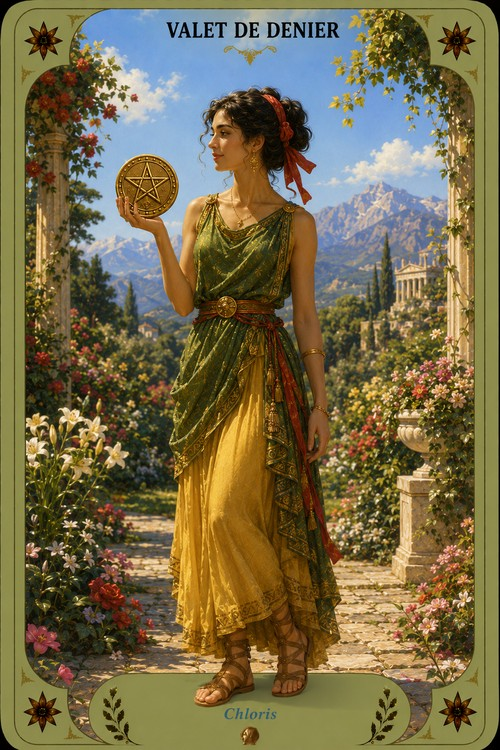
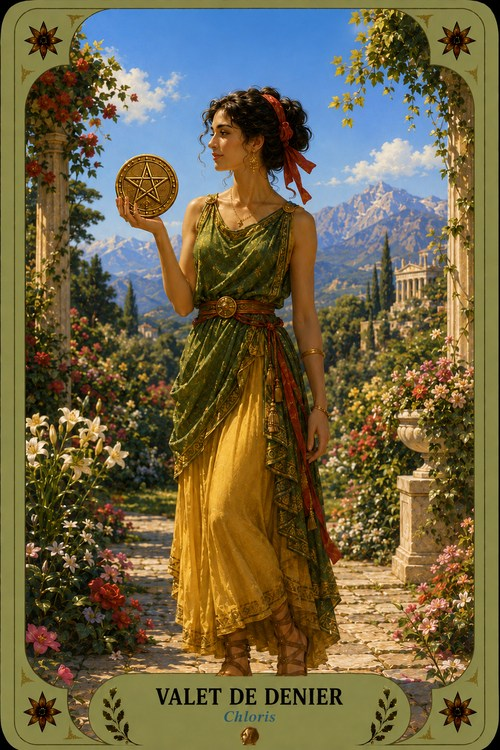
Illustre le 10 de Deniers + Cavalier/Reine/Roi de Deniers — les 78 cartes du jeu sont désormais toutes illustrées
- 4 nouvelles illustrations (500x750) fournies par l'utilisatrice : le
  10 de Deniers (nouvelle figure dédiée, Euthénie), le Cavalier de
  Deniers (Triptolème), la Reine de Deniers (Perséphone) et le Roi de
  Deniers (Ploutos) — tous les trois déjà connus via COURTS, seule
  l'illustration manquait.
- L'illustration du Valet de Deniers (Chloris) est remplacée par une
  nouvelle image fournie par l'utilisatrice (même divinité, chemin
  CARD_IMAGES inchangé).
- CARD_IMAGES : 4 nouvelles entrées. NUMBER_CARD_DEITY : "10 de
  Deniers":"euthénie" (les figures de cour n'en ont pas besoin, déjà
  couvertes par COURTS) — les 40 cartes numérales du jeu ont désormais
  chacune leur propre divinité.
- DEITY_NOTES/DEITY_LORE : nouvelle fiche complète pour Euthénie ;
  Perséphone, Triptolème et Ploutos (déjà connus) reçoivent chacun leur
  paragraphe "Dans le Tarot" reliant leur fiche à leur figure de cour
  désormais illustrée.
- CARD_LORE["10 de Deniers"].myth mis à jour pour référencer Euthénie
  (remplace Gaïa, convention numérale) ; les figures de cour
  référençaient déjà leur divinité par leur nom, texte inchangé.
- Renvois croisés : Euthénie -> Techné/Éléos/Ctésios ; le symbole "blé"
  relie désormais Perséphone et Triptolème (déjà cités dans son texte,
  jamais dans ses links).
- FREE_FIGURES inchangé (Euthénie n'entre pas dans le top 4
  alphabétique).
- Avec le 10 de Deniers illustré, les 36 décans des 12 signes du
[…]

diff --git a/app.js b/app.js
@@ -505,7 +505,7 @@ const CARD_LORE = {
 },
 "10 de Deniers": {
   marseille:"Une famille sur trois générations se tient réunie dans une cour prospère, entourée de dix deniers : héritage, réussite durable qui dépasse la seule réussite individuelle pour se transmettre.",
-  myth:"Gaïa, mère originelle, engendra les générations divines qui façonnèrent le monde bien après elle — une fondation si solide qu'elle continue de porter tout ce qui est venu ensuite. Cette carte est cet aboutissement qui se transmet, plutôt que de s'arrêter à soi."
+  myth:"Euthénie personnifie la Prospérité et l'Abondance durable, celle qui s'accumule patiemment plutôt que d'arriver d'un seul coup (voir la fiche « Euthénie »). Cette carte est cet aboutissement qui se transmet, plutôt que de s'arrêter à soi."
 }
 };
 
@@ -598,23 +598,30 @@ Object.assign(CARD_IMAGES, {
   "4 de Deniers": "assets/card-deniers-4.jpg",
   "5 de Deniers": "assets/card-deniers-5.jpg",
   // Cartes numérales de Deniers (6-9) et Valet de Deniers — fournies par l'utilisatrice,
-  // deuxième lot. Reste à illustrer : le 10 de Deniers et les 3 autres figures de cour
-  // (Cavalier, Reine, Roi).
+  // deuxième lot.
   "6 de Deniers": "assets/card-deniers-6.jpg",
   "7 de Deniers": "assets/card-deniers-7.jpg",
   "8 de Deniers": "assets/card-deniers-8.jpg",
   "9 de Deniers": "assets/card-deniers-9.jpg",
   "Valet de Deniers": "assets/card-deniers-valet.jpg",
+  // 10 de Deniers et les 3 dernières figures de cour (Cavalier/Triptolème,
+  // Reine/Perséphone, Roi/Ploutos) — troisième et dernier lot, fourni par l'utilisatrice.
+  // Les 78 cartes du jeu sont désormais toutes illustrées.
+  "10 de Deniers": "assets/card-deniers-10.jpg",
+  "Cavalier de Deniers": "assets/card-deniers-cavalier.jpg",
+  "Reine de Deniers": "assets/card-deniers-reine.jpg",
+  "Roi de Deniers": "assets/card-deniers-roi.jpg",
 });
 
-// Cartes numérales dotées d'une figure mythologique propre (contrairement aux autres
-// cartes numérales, qui partagent encore un simple mot générique entre les 4 enseignes —
-// voir NUMBER_KEYS) : la divinité associée prend la place de ce mot générique dans les
-// écrans de détail (voir cardDeityLabel() ci-dessous), exactement comme pour les majeurs
-// et les figures de cour. Pour l'instant limité aux cartes numérales illustrées
-// (CARD_IMAGES ci-dessus) ; à étendre au fil des prochaines illustrations mineures. Les
-// figures de cour n'ont pas besoin d'entrée ici : COURTS leur attribue déjà une divinité
-// propre nativement (c[1]), contrairement aux cartes numérales.
+// Cartes numérales dotées d'une figure mythologique propre (contrairement au mot générique
+// partagé entre les 4 enseignes que NUMBER_KEYS assignait avant illustration) : la divinité
+// associée prend la place de ce mot générique dans les écrans de détail (voir
+// cardDeityLabel() ci-dessous), exactement comme pour les majeurs et les figures de cour.
+// Les 40 cartes numérales (10 par enseigne) ont désormais chacune la leur — la dernière,
+// le 10 de Deniers/Euthénie, complète l'ensemble en même temps que les 78 cartes du jeu
+// deviennent toutes illustrées. Les figures de cour n'ont pas besoin d'entrée ici : COURTS
+// leur attribue déjà une divinité propre nativement (c[1]), contrairement aux cartes
+// numérales.
 const NUMBER_CARD_DEITY = {
   "As de Épées": "aletheia",
   "2 de Épées": "ananké",
@@ -655,6 +662,7 @@ const NUMBER_CARD_DEITY = {
   "7 de Deniers": "aristée",
   "8 de Deniers": "techné",
   "9 de Deniers": "aglaé",
+  "10 de Deniers": "euthénie",
 };
 // Symboles propres à une carte numérale précise (une fois illustrée avec sa propre figure,
 // voir NUMBER_CARD_DEITY ci-dessus), utilisés par allCards() à la place de la formule
@@ -1337,7 +1345,7 @@ const SYMBOL_LIBRARY = {
     "L'olivier est devenu le symbole de la paix, de la sagesse, de la prospérité, de la civilisation et de la protection divine.",
     "L'olivier est particulièrement associé à Athéna.",
   ]},
-  "blé":{icon:"🌾",label:"Blé",category:"Plantes",desc:"Récolte, travail, nourriture, cycle des saisons.",links:["déméter"],lore:[
+  "blé":{icon:"🌾",label:"Blé",category:"Plantes",desc:"Récolte, travail, nourriture, cycle des saisons.",links:["déméter","perséphone","triptolème"],lore:[
     "Le blé est avant tout associé à Déméter, déesse de l'agriculture et des récoltes.",
     "Lorsque Perséphone fut enlevée par Hadès, Déméter, accablée de chagrin, parcourut le monde à sa recherche et cessa de faire pousser les plantes. La terre devint stérile et les récoltes disparurent.",
     "Lorsque Perséphone put finalement revenir auprès d'elle, la terre recommença à produire. Le cycle de Perséphone expliquait ainsi symboliquement l'alternance des saisons et le retour des récoltes.",
@@ -1664,6 +1672,7 @@ const DEITY_NOTES = {
   "aristée":"Héros divinisé, fils d'Apollon, qui enseigna aux hommes l'art de l'élevage des abeilles, de l'olivier et du fromage.",
   "techné":"Personnification du savoir-faire artisanal — figure mineure et tardive, jamais dotée d'un mythe propre comme les grands Olympiens.",
   "aglaé":"La plus jeune des trois Charites, personnifiant l'éclat et la splendeur — selon certaines traditions, l'épouse d'Héphaïstos.",
+  "euthénie":"Personnification de la Prospérité et de l'Abondance durable — figure tardive et allégorique, jamais dotée d'un mythe propre comme les grands Olympiens.",
 };
 
 // Textes mythologiques développés pour les figures listées ci-dessus (voir showDeityDetail() /
@@ -1752,6 +1761,7 @@ const DEITY_LORE = {
     "Fille de Zeus et de Déméter, Perséphone cueillait des fleurs dans un pré lorsque la terre s'ouvrit sous elle et qu'Hadès l'emporta sur son char vers son royaume souterrain.",
     "Ayant mangé quelques grains de grenade offerts par Hadès (voir la fiche « Grenade »), elle se lia irrévocablement aux Enfers et dut, par un accord négocié par Zeus, y passer une partie de chaque année, devenant reine des morts autant que fille de la déesse des moissons.",
     "Son passage entre les deux mondes en fait la figure même de la transformation qui n'efface jamais totalement ce qu'on était avant.",
+    "Dans le Tarot, Perséphone est la Reine de Deniers, qui tient son denier avec douceur au milieu d'une abondance discrète : cette carte est cette même alternance féconde, la certitude que la croissance a besoin de ses saisons de repli pour revenir plus sûrement encore.",
   ],
   "iris": [
     "Fille du Titan Thaumas et de l'Océanide Électre, Iris personnifie l'arc-en-ciel (voir la fiche « Arc-en-ciel »), pont visible entre le ciel et la terre qu'elle emprunte pour porter les messages des dieux aux mortels comme aux autres divinités.",
@@ -1860,10 +1870,12 @@ const DEITY_LORE = {
   "triptolème": [
     "Jeune prince formé par Déméter elle-même, en reconnaissance de l'hospitalité que sa famille lui offrit alors qu'elle cherchait sa fille Perséphone à travers le monde, Triptolème reçut de la déesse l'art de cultiver le blé.",
     "Monté sur un char ailé tiré par des dragons, il parcourut la terre entière pour enseigner l'agriculture à tous les peuples, devenant ainsi le messager du plus grand don de Déméter aux hommes.",
+    "Dans le Tarot, Triptolème est le Cavalier de Deniers, qui avance sans se presser dans un champ plutôt que sur un chemin de bataille : cette carte est cette même vocation patiente, transmettre un savoir utile terre après terre, sans jamais céder à la hâte.",
   ],
   "ploutos": [
     "Dieu de la richesse et de l'abondance des récoltes, Ploutos est le fils de Déméter — un lien qui rattache la richesse à la fertilité de la terre plutôt qu'à l'or amassé.",
     "Zeus le rendit aveugle pour qu'il distribue ses faveurs sans favoritisme, sans distinguer les bons des mauvais — une richesse qui, depuis, tombe autant sur le mérite que sur le hasard.",
+    "Dans le Tarot, Ploutos est le Roi de Deniers, siégeant entouré d'une richesse tangible : cette carte est cette même prospérité installée, un sens pratique et une autorité fondés sur des résultats concrets et durables — encore à mettre au service de quelque chose.",
   ],
   "jason": [
     "Héritier légitime du trône d'Iolcos, spolié par son oncle Pélias, Jason reçut de ce dernier une mission jugée impossible en échange de la couronne : ramener la Toison d'or, gardée par un dragon ne dormant jamais, aux confins du monde connu.",
@@ -2238,6 +2250,12 @@ const DEITY_LORE = {
     "Homère, dans l'Iliade, en fait l'épouse d'Héphaïstos (voir la fiche « Héphaïstos ») — une union surprenante entre le dieu forgeron, boiteux et disgracié par les autres Olympiens, et celle qui personnifie justement l'éclat et la beauté rayonnante.",
     "Parmi ses sœurs, elle incarne plus particulièrement la splendeur qui couronne un accomplissement déjà réussi — non plus l'effort ou le partage, mais le rayonnement tranquille de ce qui n'a plus rien à prouver.",
     "Dans le Tarot, Aglaé est la figure du 9 de Deniers, où une femme élégante se tient seule dans un jardin abondant, un oiseau posé sur la main : cette carte est exactement cet éclat assumé, l'aisance de celle qui profite enfin, sans plus rien devoir démontrer, de ce qu'elle a bâti seule.",
+  ],
+  "euthénie": [
+    "Euthénie personnifie la Prospérité et l'Abondance durable — moins un personnage aux exploits racontés qu'une qualité incarnée, apparue surtout dans l'art et la pensée grecques tardives pour donner un visage au fruit visible d'une terre bien cultivée et d'une maison bien tenue.",
+    "Elle appartient à cette même famille de figures allégoriques que Techné ou Éléos (voir les fiches « Techné » et « Éléos ») : des personnifications sans mythe développé, honorées pour la qualité qu'elles incarnent plutôt que pour des exploits qui leur seraient propres.",
+    "Elle partage avec Ctésios, gardien du garde-manger domestique (voir la fiche « Ctésios »), ce même terrain : non la richesse conquise ou héritée d'un seul coup, mais celle qui s'accumule patiemment, génération après génération, jusqu'à devenir un bien commun plutôt qu'individuel.",
+    "Dans le Tarot, Euthénie est la figure du 10 de Deniers, où trois générations d'une même famille se retrouvent réunies dans une cour prospère, entourées de dix deniers : cette carte est cet aboutissement qui ne s'arrête jamais à une seule personne, mais se transmet et se partage.",
   ],
 };
 

diff --git a/service-worker.js b/service-worker.js
@@ -1,4 +1,4 @@
-const CACHE="delphes-v94";
+const CACHE="delphes-v95";
 const ASSETS=["./","./index.html","./styles.css","./app.js","./manifest.json","./icon.svg","./politique-confidentialite.html"];
 
 self.addEventListener("install",event=>{

diff --git a/README.md b/README.md
@@ -6,7 +6,7 @@ Application web (PWA) de tarot mythologique grec — tirage interactif, lecture 
 - `index.html` — structure de la page
 - `styles.css` — tous les styles (police Cinzel/EB Garamond, thème "divinatoire", animation de chargement en étoiles)
 - `app.js` — toute la logique (données des cartes, symboles, tirage, navigation, appel au backend IA)
-- `assets/` — illustrations des 22 arcanes majeurs (Le Mat, Bateleur, Papesse, Impératrice, Empereur, Pape, Amoureux, Chariot, Justice, Hermite, Roue de Fortune, Force, Pendu, Arcane sans nom, Tempérance, Diable, Maison-Dieu, Étoile, Lune, Soleil, Jugement, Monde) — collection complète. Illustration progressive des 56 cartes mineures : le jeu d'Épées, le jeu de Bâtons et le jeu de Coupes sont tous les trois complets (10 numérales + 4 figures de cour chacun, `card-epees-*.jpg`, `card-batons-*.jpg` et `card-coupes-*.jpg`) ; Deniers a désormais ses 9 premières cartes numérales et son Valet illustrés (`card-deniers-1.jpg` à `card-deniers-9.jpg` et `card-deniers-valet.jpg`, fournis par l'utilisatrice — As à Neuf, puis Valet), seuls le 10 et les 3 autres figures de cour (Cavalier, Reine, Roi) restant encore en glyphe emoji ou en pips. 5 illustrations (`learn-*.jpg`, 500×500) pour les cases de l'onglet Apprendre — `learn-symboles.jpg`, fournie par l'utilisatrice, complète la « Bibliothèque symbolique » qui n'en avait aucune jusque-là (retour direct : « mets cette illustration, au même format que les autres ») — et 4 illustrations (`suit-*.jpg`) pour les 4 enseignes dans les sous-sections « Figures de cour » et « Cartes numérales ». `reves-hero.jpg` (700×1050) illustre l'onglet Rêves (voir « Rêves — comment ça marche »).
+- `assets/` — illustrations des 22 arcanes majeurs (Le Mat, Bateleur, Papesse, Impératrice, Empereur, Pape, Amoureux, Chariot, Justice, Hermite, Roue de Fortune, Force, Pendu, Arcane sans nom, Tempérance, Diable, Maison-Dieu, Étoile, Lune, Soleil, Jugement, Monde) — collection complète. Les 56 cartes mineures sont désormais toutes illustrées elles aussi : Épées, Bâtons et Coupes de longue date (10 numérales + 4 figures de cour chacun, `card-epees-*.jpg`, `card-batons-*.jpg` et `card-coupes-*.jpg`), et Deniers en dernier (`card-deniers-*.jpg`, fournies par l'utilisatrice en 3 lots successifs — As à 5, puis 6 à 9 et le Valet, puis le 10 et les 3 dernières figures de cour Cavalier/Reine/Roi). **Les 78 cartes du jeu sont donc désormais toutes illustrées.** 5 illustrations (`learn-*.jpg`, 500×500) pour les cases de l'onglet Apprendre — `learn-symboles.jpg`, fournie par l'utilisatrice, complète la « Bibliothèque symbolique » qui n'en avait aucune jusque-là (retour direct : « mets cette illustration, au même format que les autres ») — et 4 illustrations (`suit-*.jpg`) pour les 4 enseignes dans les sous-sections « Figures de cour » et « Cartes numérales ». `reves-hero.jpg` (700×1050) illustre l'onglet Rêves (voir « Rêves — comment ça marche »).
 - `manifest.json` + `icon.svg` — nécessaires pour l'installation en PWA
 - `service-worker.js` — cache offline
 - `politique-confidentialite.html` — page statique et autonome (pas de dépendance à `app.js`/`styles.css`, pour rester consultable même si le reste de l'appli change) requise avant toute publication sur l'App Store/Play Store — voir « Politique de confidentialité » plus bas
@@ -85,7 +85,7 @@ Contrairement au nombre du prénom (fixe à vie), trois nombres évoluent avec l
 
 Quand un profil est enregistré, `generateAIReading()` envoie automatiquement un résumé (`profileForReading()` : prénom, nombre numérologique, signes solaire/lunaire/ascendant, année personnelle) à `/api/reading`, qui l'intègre avec subtilité à la lecture si c'est pertinent — sans jamais devenir un horoscope générique ni éclipser les cartes tirées. Sans profil enregistré, la lecture se comporte exactement comme avant.
 
-**Divinité tutélaire** : `tutelaryDeity()` détermine la figure mythologique la plus représentée dans le thème natal — chaque planète « vote », avec un poids plus fort pour les planètes personnelles (Soleil, Lune, Ascendant, Mercure, Vénus, Mars) que pour Jupiter/Saturne, et en excluant Uranus/Neptune/Pluton — trop lentes pour différencier un individu d'une génération entière. Le vote se fait à la précision maximale que l'illustration du jeu permet à ce jour : d'abord le **décan exact** du signe (tranche de 10°, `DECAN_MINOR_CARDS`/`decanCardFor()` — tradition des "decanates" du Golden Dawn/Thoth Tarot, chaque signe divisé en 3 décans pointant chacun vers une carte numérale 2-10 d'une enseigne selon sa triplicité élémentaire) ; si cette carte a déjà sa propre figure illustrée (`NUMBER_CARD_DEITY` — Épées, Bâtons et Coupes tous complets, et désormais l'As au 9 de Deniers), le vote va à cette figure précise, piochée dans l'ensemble de la bibliothèque (~100 figures) plutôt que dans les seules 12 divinités des majeurs ; sinon, repli sur le dieu du majeur associé au signe entier via `ZODIAC_MAJOR_LINKS`, comme avant cette extension. Avec l'illustration de l'As au 9 de Deniers, Capricorne et Taureau votent désormais précisément sur leurs 3 décans (2/3/4 et 5/6/7 de Deniers), rejoignant les 9 signes déjà pleinement couverts (Bélier/Lion/Sagittaire, Balance/Verseau/Gémeaux, Cancer/Scorpion/Poissons) — 11 signes sur 12. Seule la Vierge reste partiellement en repli : ses deux premiers décans (8/9 de Deniers) votent précisément, seul son 3e décan (10 de Deniers) retombant encore sur le signe entier — la toute dernière carte de décan du zodiaque encore non illustrée. Affichée sous forme de carte cliquable (glyphe + nom + note), qui renvoie vers la fiche complète de la divinité, avec une explication de ce choix (voir `/api/astral-text` juste en dessous : `tutelaryReason` en IA, ou une phrase de repli qui énumère les placements les plus lourds via `tutelaryReasonFallback()`).
+**Divinité tutélaire** : `tutelaryDeity()` détermine la figure mythologique la plus représentée dans le thème natal — chaque planète « vote », avec un poids plus fort pour les planètes personnelles (Soleil, Lune, Ascendant, Mercure, Vénus, Mars) que pour Jupiter/Saturne, et en excluant Uranus/Neptune/Pluton — trop lentes pour différencier un individu d'une génération entière. Le vote se fait à la précision maximale que l'illustration du jeu permet à ce jour : d'abord le **décan exact** du signe (tranche de 10°, `DECAN_MINOR_CARDS`/`decanCardFor()` — tradition des "decanates" du Golden Dawn/Thoth Tarot, chaque signe divisé en 3 décans pointant chacun vers une carte numérale 2-10 d'une enseigne selon sa triplicité élémentaire) ; si cette carte a déjà sa propre figure illustrée (`NUMBER_CARD_DEITY` — les 40 cartes numérales des 4 enseignes en ont désormais une), le vote va à cette figure précise, piochée dans l'ensemble de la bibliothèque (~104 figures) plutôt que dans les seules 12 divinités des majeurs ; le repli sur le dieu du majeur associé au signe entier via `ZODIAC_MAJOR_LINKS` (comportement d'avant cette extension) reste dans le code par robustesse, mais n'est plus jamais déclenché en pratique : avec l'illustration du 10 de Deniers (Euthénie), les 36 décans des 12 signes du zodiaque votent tous désormais avec la précision maximale. Affichée sous forme de carte cliquable (glyphe + nom + note), qui renvoie vers la fiche complète de la divinité, avec une explication de ce choix (voir `/api/astral-text` juste en dessous : `tutelaryReason` en IA, ou une phrase de repli qui énumère les placements les plus lourds via `tutelaryReasonFallback()`).
 
 **Portrait de personnalité** (`POST /api/portrait`, `api/portrait.js`) : un texte suivi de 3-4 paragraphes, rédigé par l'IA à partir d'un résumé du thème (signes, numérologie, divinité tutélaire, aspects les plus serrés — jamais le thème natal complet), sans jargon technique ("aspect", "orbe"…) traduit en traits de caractère concrets. Généré **une seule fois** et mis en cache dans le profil (`profile.portrait`), jamais régénéré tant que les informations de naissance ne changent pas — voir `ensurePortrait()` dans `app.js`, même mécanique de discrétion qu'`ensureTransits()` (aucun appel avant qu'un code d'accès existe déjà). Remplace le paragraphe récapitulatif local (`natalSummaryParagraph()`) une fois prêt ; celui-ci reste affiché en attendant ou si l'appel échoue.
 
@@ -220,7 +220,7 @@ Apple (App Store Connect) et Google (Play Console) exigent tous les deux une URL
 - Navigation 5 onglets (Accueil / Tirage / Apprendre / Rêves / Profil) — Symboles n'est plus un onglet de premier niveau depuis l'ajout de Rêves, fusionné dans Apprendre comme une tuile de plus (voir « Rêves — comment ça marche »). Retour direct d'utilisatrice : la tuile « Apprendre » de l'accueil (`home()` dans `app.js`) disait encore « Un parcours progressif sur les 78 cartes », un texte antérieur à l'ajout des figures mythologiques et de la bibliothèque symbolique dans cet onglet — corrigé pour refléter les trois catégories réellement explorables (cartes, figures mythologiques, symboles)
 - Tirage : 5 types de tirage au choix (`SPREADS` dans `app.js`), écran de sélection animé (halo scintillant + pluie d'étoiles) — Tirage général (3 cartes, pioche de 15), Oui/Non (1 carte, pioche de 9), Amour (3 cartes — Toi / L'autre / La relation, pioche de 15), Croix celtique (10 cartes avec position dédiée pour chacune, pioche de 24), Année à venir (une carte par mois **restant** de l'année en cours — mois courant inclus, `remainingMonthsPositions()` — pas la peine de tirer pour un mois déjà passé ; pas de question à écrire, un clic sur la tuile pioche directement). Bouton « ← Changer de tirage » pour revenir à la sélection. Lecture personnalisée générée par IA (tient compte de la position de chaque carte dans le tirage), avec animation de chargement (étoiles dorées scintillantes) et repli local si l'IA ne répond pas, enrichie par le Profil astral quand il existe. Retour direct d'utilisatrice : la tuile « Tirer les cartes » de l'accueil annonçait encore "trois cartes" (`home()` dans `app.js`) alors que 5 types de tirage existent depuis longtemps, de 1 à 12 cartes selon le choix — texte corrigé pour ne plus annoncer de nombre de cartes fixe (« Pose ta question, choisis le tirage qui lui correspond »), et volontairement générique pour ne plus se périmer à l'ajout d'un futur type de tirage
 - Bibliothèque de 95 symboles et nombres, triés par ordre alphabétique, tous cliquables et reliés aux cartes/divinités ; position de scroll préservée à la navigation. Sa tuile dans l'onglet Apprendre (`apprendre()`) a désormais sa propre illustration (`assets/learn-symboles.jpg`, fournie par l'utilisatrice, même format 500×500 que les 4 autres tuiles de cet écran) via `illusHTML()` — elle n'en avait aucune jusque-là, contrairement aux autres catégories. Les 85 symboles (plantes, animaux, objets, attributs des dieux, lieux, éléments, astres…) ont tous en plus un texte mythologique détaillé (`lore`, plusieurs paragraphes) affiché dans leur fiche sous « Aux origines du symbole ». La section « Cartes concernées » de chaque fiche (`cardsForSymbol()`) s'appuie sur le champ `symbols` (c[5]) de chaque carte — longtemps incomplet pour deux raisons structurelles, corrigées depuis : les figures de cour n'avaient jamais ce champ (toujours vide, `COURTS` n'en avait pas la place — 5e élément ajouté par figure quand son mythe le justifie) et les cartes numérales le partageaient entre toutes les cartes du même rang ou de la même enseigne (`NUMBER_KEYS`/`SUITS`), rendant impossible un lien propre à une seule carte comme "2 de Bâtons" (Artémis) — voir `NUMBER_CARD_SYMBOLS`, même principe que `NUMBER_CARD_DEITY`, pour les cartes numérales illustrées qui en ont besoin
-- Figures mythologiques (onglet Apprendre → « Figures mythologiques », `DEITY_NOTES`) : les 103 divinités et héros du jeu (nombre affiché dynamiquement dans l'app via `Object.keys(DEITY_NOTES).length`, à ne pas confondre avec ce chiffre figé ici — susceptible de dater dès la prochaine addition) ont chacun leur fiche dédiée, avec la ou les cartes associées quand il y en a. Elles ont en plus un texte mythologique développé (`DEITY_LORE`, séparé de `DEITY_NOTES` pour ne pas changer son type ailleurs dans le code) affiché sous « Le mythe » — même traitement que les symboles, avec renvois croisés entre fiches (ex. la fiche « Iris » renvoie à « Arc-en-ciel », et inversement). Recherche en direct (`#figuresSearch`) sur cette liste, même mécanisme que la recherche des Symboles mais câblé directement dans `showLearnFigures()` (cet écran ne passe pas par `bind()`)
+- Figures mythologiques (onglet Apprendre → « Figures mythologiques », `DEITY_NOTES`) : les 104 divinités et héros du jeu (nombre affiché dynamiquement dans l'app via `Object.keys(DEITY_NOTES).length`, à ne pas confondre avec ce chiffre figé ici — susceptible de dater dès la prochaine addition) ont chacun leur fiche dédiée, avec la ou les cartes associées quand il y en a. Elles ont en plus un texte mythologique développé (`DEITY_LORE`, séparé de `DEITY_NOTES` pour ne pas changer son type ailleurs dans le code) affiché sous « Le mythe » — même traitement que les symboles, avec renvois croisés entre fiches (ex. la fiche « Iris » renvoie à « Arc-en-ciel », et inversement). Recherche en direct (`#figuresSearch`) sur cette liste, même mécanisme que la recherche des Symboles mais câblé directement dans `showLearnFigures()` (cet écran ne passe pas par `bind()`)
 - Détail de carte enrichi : lecture Tarot de Marseille + éclairage mythologique pour les 22 arcanes majeurs
 - Profil : Profil astral (thème natal complet + numérologie du prénom et du temps) et Journal des tirages passés, tous les deux en localStorage. Le Journal garde la lecture complète (texte par carte + synthèse, IA ou générée hors-ligne), pas seulement les noms des cartes — repliable sous « Revoir la lecture complète » sur chaque entrée. Ré-enregistrer un tirage déjà sauvegardé met à jour l'entrée existante plutôt que d'en créer une en double. Une fois 3 tirages enregistrés, un bandeau « Tes tendances » dégage la carte et le thème de question les plus fréquents (voir « Journal intelligent » plus haut)
 - Profil met en avant les arcanes majeurs liés à ton profil astral (Soleil/Lune/Ascendant), via une table de correspondance zodiaque ↔ arcane majeur (`ZODIAC_MAJOR_LINKS`, tradition ésotérique classique) — n'apparaît que si un Profil astral est enregistré
@@ -236,7 +236,7 @@ Apple (App Store Connect) et Google (Play Console) exigent tous les deux une URL
 - Divinité tutélaire (avec l'explication de ce choix), portrait de personnalité et textes astraux personnalisés par case (nombre du prénom, chaque planète, l'ascendant, chaque aspect), tous rédigés par IA dans le Profil astral (voir « Profil astral » plus haut)
 
 ## Pistes de suite possibles (non bloquantes)
-- Ajouter les illustrations des cartes mineures restantes (même gabarit que `assets/`, 500×750px, JPEG qualité ~88-90) — les 22 arcanes majeurs et les enseignes d'Épées, de Bâtons et de Coupes (10 numérales + 4 figures de cour chacune) sont désormais tous illustrés, et Deniers a bien avancé son rattrapage (As au 9 et Valet illustrés, ne restent plus que le 10 et les 3 autres figures de cour — Cavalier, Reine, Roi —, 4 cartes). La double lecture Marseille + mythologie (`CARD_LORE`), elle, couvre déjà les 78 cartes — l'illustration et le texte avancent à des rythmes indépendants.
+- ~~Ajouter les illustrations des cartes mineures restantes~~ — fait : les 78 cartes du jeu (22 arcanes majeurs + 56 mineures, Épées/Bâtons/Coupes/Deniers) sont désormais toutes illustrées (même gabarit, 500×750px, JPEG qualité ~88-90), Deniers ayant terminé son rattrapage en 3 lots successifs fournis par l'utilisatrice. La double lecture Marseille + mythologie (`CARD_LORE`) couvrait déjà les 78 cartes ; illustration et texte se rejoignent donc désormais complètement.
 - Système de compte / sync cloud si l'app doit devenir multi-appareil (actuellement tout est en localStorage, donc local à l'appareil)
 - Vrai système premium (StoreKit/In-App Purchase côté App Store, comptes utilisateurs, suivi d'abonnement côté serveur) si le mode premium local actuel (`isPremiumEnabled()`, un simple interrupteur `localStorage` sans aucun paiement réel — voir « Découpage gratuit / premium » plus haut) doit un jour devenir un vrai palier payant ; seul `isPremiumEnabled()` aurait besoin de changer, tout le reste du découpage (`FREE_MAJORS`, `FREE_COURTS`, etc.) resterait identique
 - Emballage en app native (Capacitor) pour publication App Store / Google Play
